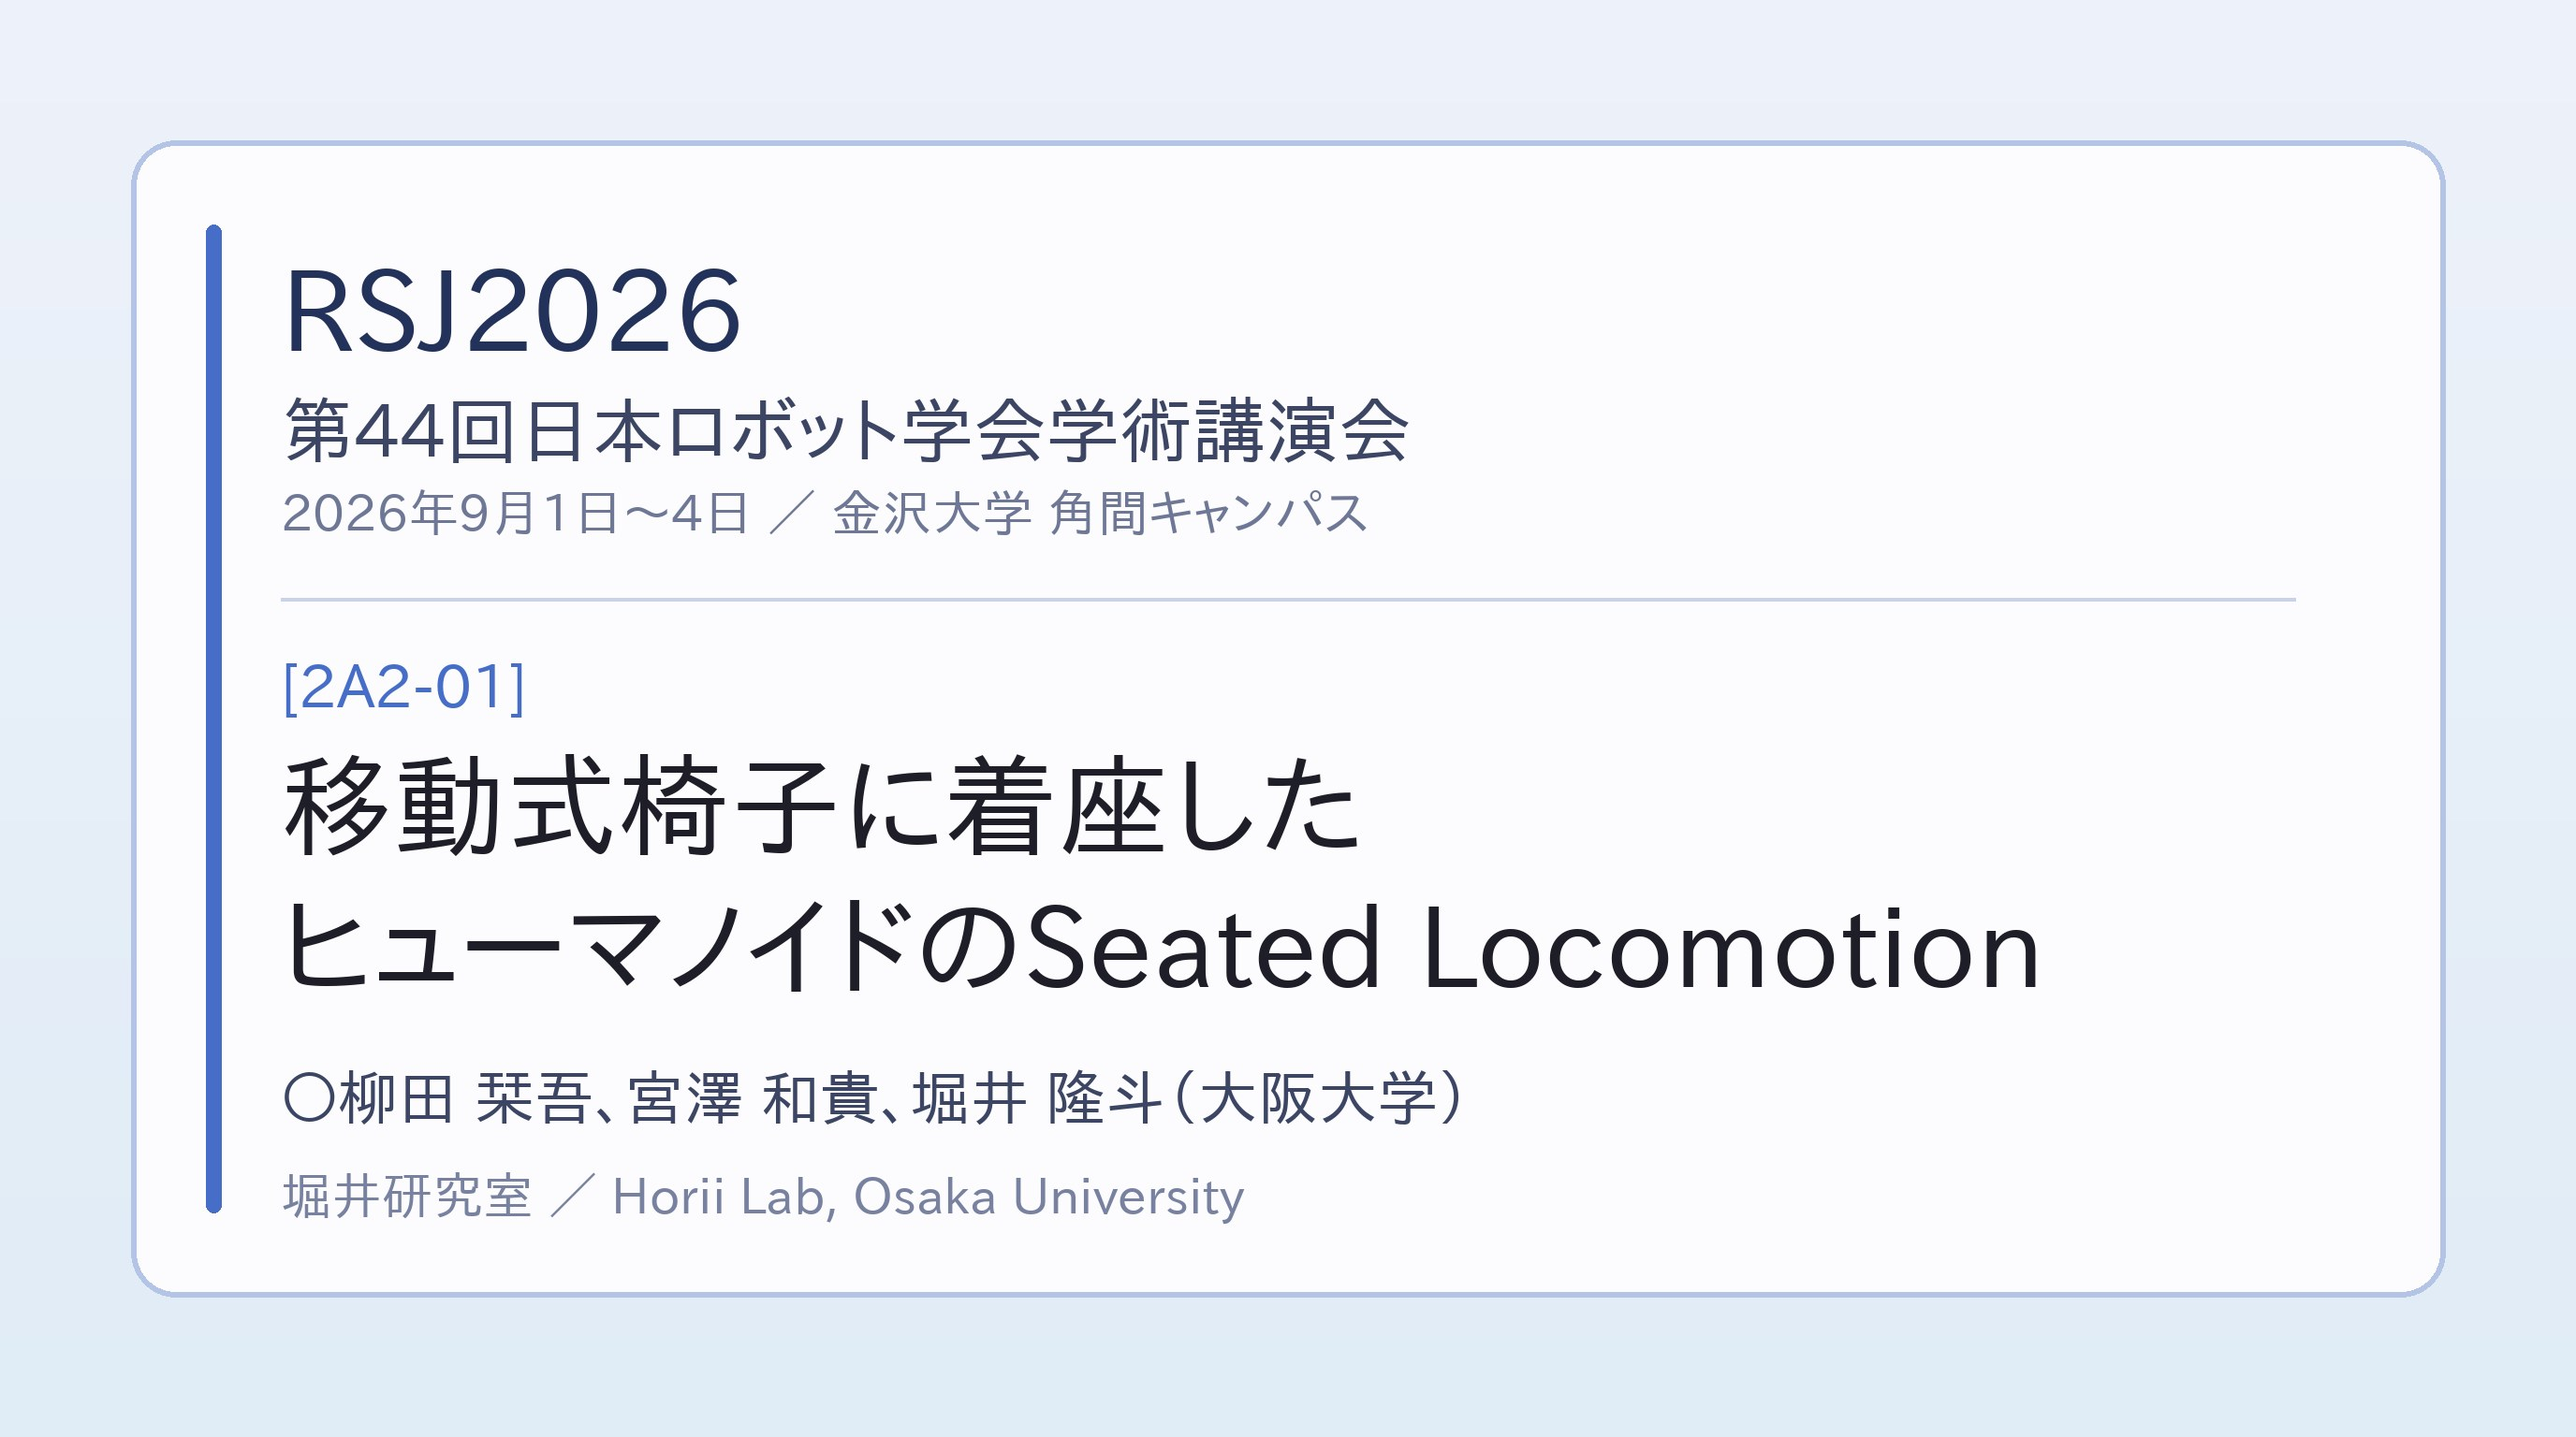
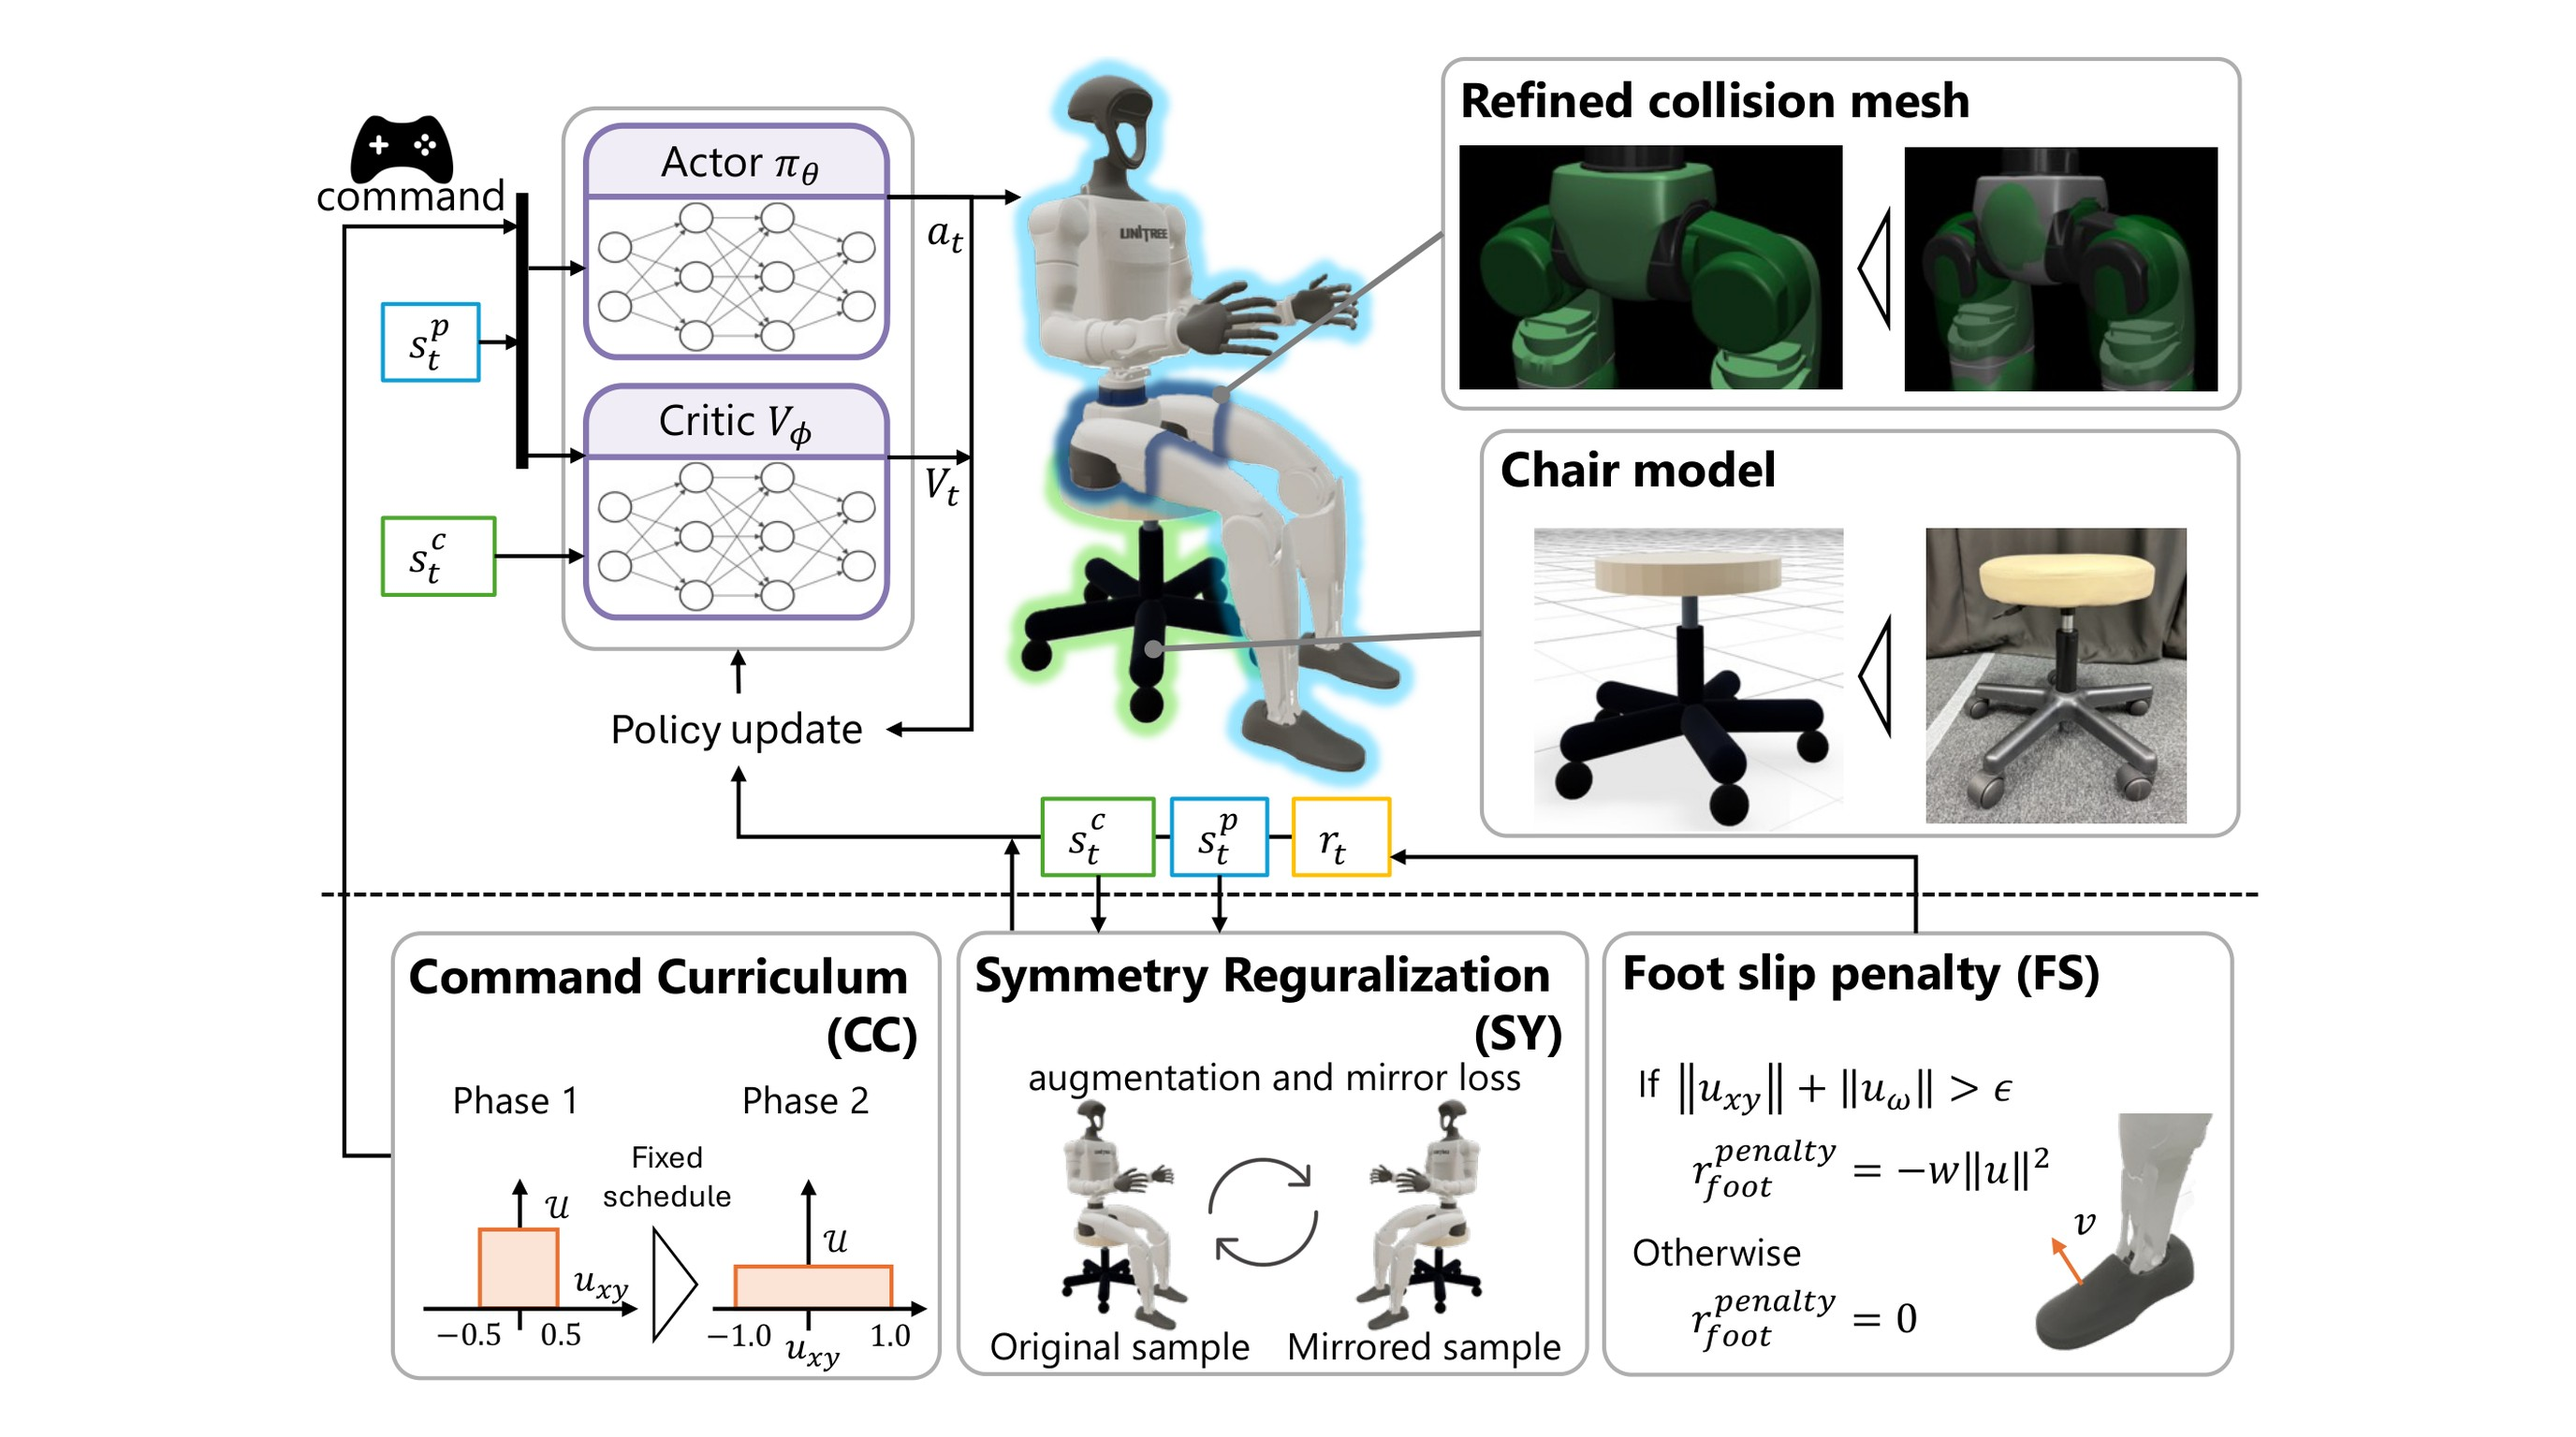
RSJ2026発表のお知らせ：サムネイルを論文Fig.2に差し替え、arXivリンクを追記、英語名をKangoに修正
Claude-Session: https://claude.ai/code/session_01Ae9raoaYMs26QbfnuZpsYS

diff --git a/content/en/blog/rsj2026-yanagida-seated-locomotion/index.md b/content/en/blog/rsj2026-yanagida-seated-locomotion/index.md
@@ -1,18 +1,20 @@
 ---
-title: "Shogo Yanagida Presented at the 44th Annual Conference of the Robotics Society of Japan (RSJ2026)"
+title: "Kango Yanagida Presented at the 44th Annual Conference of the Robotics Society of Japan (RSJ2026)"
 date: 2026-09-03
 tags:
   - Conference Presentations
   - Student Activities
 ---
 
-Shogo Yanagida of our lab gave the following presentation at the 44th Annual Conference of the Robotics Society of Japan ([RSJ2026](https://ac.rsj-web.org/2026/), September 1–4, 2026, Kanazawa University Kakuma Campus).
+Kango Yanagida of our lab gave the following presentation at the 44th Annual Conference of the Robotics Society of Japan ([RSJ2026](https://ac.rsj-web.org/2026/), September 1–4, 2026, Kanazawa University Kakuma Campus).
 
 <!--more-->
 
 **[2A2-01] Seated Locomotion of a Humanoid Sitting on a Mobile Chair** (in Japanese)
-*Shogo Yanagida (Osaka Univ.), Kazuki Miyazawa (Osaka Univ.), Takato Horii (Osaka Univ. / IRCN, The University of Tokyo)*
+*Kango Yanagida (Osaka Univ.), Kazuki Miyazawa (Osaka Univ.), Takato Horii (Osaka Univ. / IRCN, The University of Tokyo)*
 September 3, 2026 (Thu), 10:20–
 Organized Session "Physical AI in the Era of Foundation Models"
+
+Related paper: [Stay Seated: Learning Omnidirectional Humanoid Locomotion on a Passive Mobile Chair with Casters](https://arxiv.org/abs/2608.28090) (arXiv:2608.28090)
 
 For details, see the [RSJ2026 official website](https://ac.rsj-web.org/2026/).

diff --git a/content/ja/blog/rsj2026-yanagida-seated-locomotion/index.md b/content/ja/blog/rsj2026-yanagida-seated-locomotion/index.md
@@ -17,4 +17,6 @@ tags:
 
 （〇は登壇者）
 
+関連論文：[Stay Seated: Learning Omnidirectional Humanoid Locomotion on a Passive Mobile Chair with Casters](https://arxiv.org/abs/2608.28090)（arXiv:2608.28090）
+
 詳細は[RSJ2026 公式サイト](https://ac.rsj-web.org/2026/)をご覧ください。
